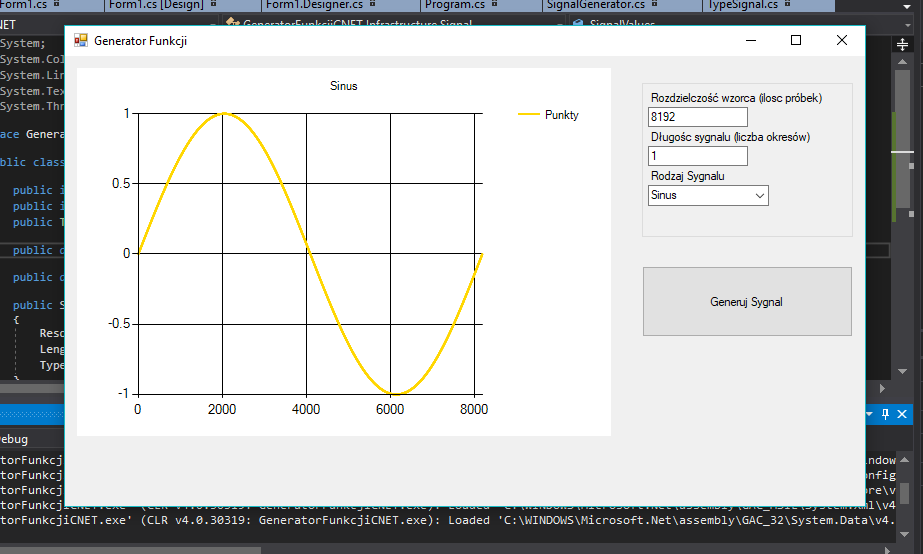
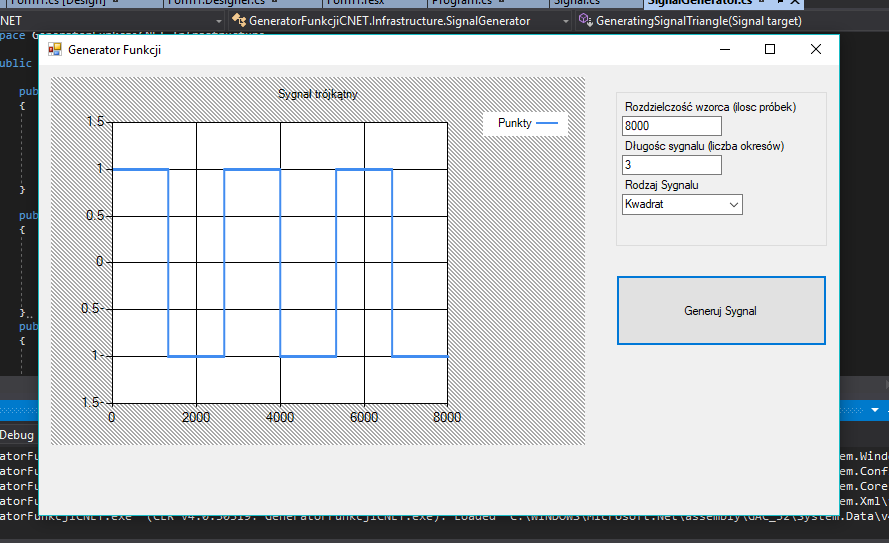
Delikatne poprawki

diff --git a/GeneratorFunkcjiCNET/Form1.Designer.cs b/GeneratorFunkcjiCNET/Form1.Designer.cs
@@ -28,42 +28,51 @@
         /// </summary>
         private void InitializeComponent()
         {
-            System.Windows.Forms.DataVisualization.Charting.ChartArea chartArea3 = new System.Windows.Forms.DataVisualization.Charting.ChartArea();
-            System.Windows.Forms.DataVisualization.Charting.Legend legend3 = new System.Windows.Forms.DataVisualization.Charting.Legend();
-            System.Windows.Forms.DataVisualization.Charting.Series series3 = new System.Windows.Forms.DataVisualization.Charting.Series();
+            System.Windows.Forms.DataVisualization.Charting.ChartArea chartArea1 = new System.Windows.Forms.DataVisualization.Charting.ChartArea();
+            System.Windows.Forms.DataVisualization.Charting.Legend legend1 = new System.Windows.Forms.DataVisualization.Charting.Legend();
+            System.Windows.Forms.DataVisualization.Charting.Series series1 = new System.Windows.Forms.DataVisualization.Charting.Series();
             this.chartMain = new System.Windows.Forms.DataVisualization.Charting.Chart();
             this.buttonGenerate = new System.Windows.Forms.Button();
             this.groupBoxEnterValues = new System.Windows.Forms.GroupBox();
-            this.textBoxResolutionPattern = new System.Windows.Forms.TextBox();
-            this.labelResolutionPattern = new System.Windows.Forms.Label();
-            this.labelLengthSignal = new System.Windows.Forms.Label();
-            this.textBoxLengthSignal = new System.Windows.Forms.TextBox();
-            this.comboBoxSignalType = new System.Windows.Forms.ComboBox();
             this.labelSignalType = new System.Windows.Forms.Label();
+            this.comboBoxSignalType = new System.Windows.Forms.ComboBox();
+            this.textBoxLengthSignal = new System.Windows.Forms.TextBox();
+            this.labelLengthSignal = new System.Windows.Forms.Label();
+            this.labelResolutionPattern = new System.Windows.Forms.Label();
+            this.textBoxResolutionPattern = new System.Windows.Forms.TextBox();
             ((System.ComponentModel.ISupportInitialize)(this.chartMain)).BeginInit();
             this.groupBoxEnterValues.SuspendLayout();
             this.SuspendLayout();
             // 
             // chartMain
             // 
+            this.chartMain.BackColor = System.Drawing.Color.DarkGray;
+            this.chartMain.BackGradientStyle = System.Windows.Forms.DataVisualization.Charting.GradientStyle.DiagonalRight;
+            this.chartMain.BackgroundImageLayout = System.Windows.Forms.ImageLayout.Center;
+            this.chartMain.BackHatchStyle = System.Windows.Forms.DataVisualization.Charting.ChartHatchStyle.DarkDownwardDiagonal;
+            this.chartMain.BackImageTransparentColor = System.Drawing.Color.White;
+            this.chartMain.BackSecondaryColor = System.Drawing.Color.White;
+            this.chartMain.BorderlineColor = System.Drawing.Color.Transparent;
+            this.chartMain.BorderSkin.BackGradientStyle = System.Windows.Forms.DataVisualization.Charting.GradientStyle.Center;
+            this.chartMain.BorderSkin.BackSecondaryColor = System.Drawing.Color.Lime;
             this.chartMain.BorderSkin.PageColor = System.Drawing.Color.LightSeaGreen;
-            chartArea3.Name = "ChartArea1";
-            this.chartMain.ChartAreas.Add(chartArea3);
-            this.chartMain.Cursor = System.Windows.Forms.Cursors.Default;
-            legend3.Name = "Legend1";
-            this.chartMain.Legends.Add(legend3);
+            chartArea1.Name = "ChartArea1";
+            this.chartMain.ChartAreas.Add(chartArea1);
+            this.chartMain.Cursor = System.Windows.Forms.Cursors.Cross;
+            this.chartMain.ImeMode = System.Windows.Forms.ImeMode.On;
+            legend1.Name = "Legend1";
+            this.chartMain.Legends.Add(legend1);
             this.chartMain.Location = new System.Drawing.Point(12, 12);
             this.chartMain.Name = "chartMain";
-            this.chartMain.Palette = System.Windows.Forms.DataVisualization.Charting.ChartColorPalette.Fire;
-            this.chartMain.PaletteCustomColors = new System.Drawing.Color[] {
-        System.Drawing.Color.FromArgb(((int)(((byte)(0)))), ((int)(((byte)(192)))), ((int)(((byte)(0)))))};
-            series3.BorderColor = System.Drawing.Color.Blue;
-            series3.BorderWidth = 2;
-            series3.ChartArea = "ChartArea1";
-            series3.ChartType = System.Windows.Forms.DataVisualization.Charting.SeriesChartType.Line;
-            series3.Legend = "Legend1";
-            series3.Name = "Punkty";
-            this.chartMain.Series.Add(series3);
+            this.chartMain.Palette = System.Windows.Forms.DataVisualization.Charting.ChartColorPalette.None;
+            this.chartMain.RightToLeft = System.Windows.Forms.RightToLeft.Yes;
+            series1.BorderColor = System.Drawing.Color.Blue;
+            series1.BorderWidth = 2;
+            series1.ChartArea = "ChartArea1";
+            series1.ChartType = System.Windows.Forms.DataVisualization.Charting.SeriesChartType.Line;
+            series1.Legend = "Legend1";
+            series1.Name = "Punkty";
+            this.chartMain.Series.Add(series1);
             this.chartMain.Size = new System.Drawing.Size(534, 368);
             this.chartMain.TabIndex = 0;
             this.chartMain.Text = "chartMain";
@@ -93,37 +102,14 @@
             this.groupBoxEnterValues.TabStop = false;
             this.groupBoxEnterValues.Enter += new System.EventHandler(this.groupBox1_Enter);
             // 
-            // textBoxResolutionPattern
+            // labelSignalType
             // 
-            this.textBoxResolutionPattern.Location = new System.Drawing.Point(6, 30);
-            this.textBoxResolutionPattern.Name = "textBoxResolutionPattern";
-            this.textBoxResolutionPattern.Size = new System.Drawing.Size(100, 20);
-            this.textBoxResolutionPattern.TabIndex = 0;
-            // 
-            // labelResolutionPattern
-            // 
-            this.labelResolutionPattern.AutoSize = true;
-            this.labelResolutionPattern.Location = new System.Drawing.Point(6, 14);
-            this.labelResolutionPattern.Name = "labelResolutionPattern";
-            this.labelResolutionPattern.Size = new System.Drawing.Size(178, 13);
-            this.labelResolutionPattern.TabIndex = 1;
-            this.labelResolutionPattern.Text = "Rozdzielczość wzorca (ilosc próbek)";
-            // 
-            // labelLengthSignal
-            // 
-            this.labelLengthSignal.AutoSize = true;
-            this.labelLengthSignal.Location = new System.Drawing.Point(6, 53);
-            this.labelLengthSignal.Name = "labelLengthSignal";
-            this.labelLengthSignal.Size = new System.Drawing.Size(166, 13);
-            this.labelLengthSignal.TabIndex = 2;
-            this.labelLengthSignal.Text = "Długośc sygnalu (liczba okresów)";
-            // 
-            // textBoxLengthSignal
-            // 
-            this.textBoxLengthSignal.Location = new System.Drawing.Point(6, 69);
-            this.textBoxLengthSignal.Name = "textBoxLengthSignal";
-            this.textBoxLengthSignal.Size = new System.Drawing.Size(100, 20);
-            this.textBoxLengthSignal.TabIndex = 3;
+            this.labelSignalType.AutoSize = true;
+            this.labelSignalType.Location = new System.Drawing.Point(6, 92);
+            this.labelSignalType.Name = "labelSignalType";
+            this.labelSignalType.Size = new System.Drawing.Size(81, 13);
+            this.labelSignalType.TabIndex = 5;
+            this.labelSignalType.Text = "Rodzaj Sygnalu";
             // 
             // comboBoxSignalType
             // 
@@ -140,14 +126,37 @@
             this.comboBoxSignalType.Size = new System.Drawing.Size(121, 21);
             this.comboBoxSignalType.TabIndex = 4;
             // 
-            // labelSignalType
+            // textBoxLengthSignal
             // 
-            this.labelSignalType.AutoSize = true;
-            this.labelSignalType.Location = new System.Drawing.Point(6, 92);
-            this.labelSignalType.Name = "labelSignalType";
-            this.labelSignalType.Size = new System.Drawing.Size(81, 13);
-            this.labelSignalType.TabIndex = 5;
-            this.labelSignalType.Text = "Rodzaj Sygnalu";
+            this.textBoxLengthSignal.Location = new System.Drawing.Point(6, 69);
+            this.textBoxLengthSignal.Name = "textBoxLengthSignal";
+            this.textBoxLengthSignal.Size = new System.Drawing.Size(100, 20);
+            this.textBoxLengthSignal.TabIndex = 3;
+            // 
+            // labelLengthSignal
+            // 
+            this.labelLengthSignal.AutoSize = true;
+            this.labelLengthSignal.Location = new System.Drawing.Point(6, 53);
+            this.labelLengthSignal.Name = "labelLengthSignal";
+            this.labelLengthSignal.Size = new System.Drawing.Size(166, 13);
+            this.labelLengthSignal.TabIndex = 2;
+            this.labelLengthSignal.Text = "Długośc sygnalu (liczba okresów)";
+            // 
+            // labelResolutionPattern
+            // 
+            this.labelResolutionPattern.AutoSize = true;
+            this.labelResolutionPattern.Location = new System.Drawing.Point(6, 14);
+            this.labelResolutionPattern.Name = "labelResolutionPattern";
+            this.labelResolutionPattern.Size = new System.Drawing.Size(178, 13);
+            this.labelResolutionPattern.TabIndex = 1;
+            this.labelResolutionPattern.Text = "Rozdzielczość wzorca (ilosc próbek)";
+            // 
+            // textBoxResolutionPattern
+            // 
+            this.textBoxResolutionPattern.Location = new System.Drawing.Point(6, 30);
+            this.textBoxResolutionPattern.Name = "textBoxResolutionPattern";
+            this.textBoxResolutionPattern.Size = new System.Drawing.Size(100, 20);
+            this.textBoxResolutionPattern.TabIndex = 0;
             // 
             // Form1
             // 

diff --git a/GeneratorFunkcjiCNET/Form1.cs b/GeneratorFunkcjiCNET/Form1.cs
@@ -17,6 +17,8 @@ namespace GeneratorFunkcjiCNET
         public Form1()
         {
             InitializeComponent();
+
+
             comboBoxSignalType.SelectedIndex = 0;
             textBoxLengthSignal.Text = "1";
             textBoxResolutionPattern.Text = "8192";
@@ -29,7 +31,7 @@ namespace GeneratorFunkcjiCNET
         public void UpdateChart()
         {
             chartMain.Series["Punkty"].Points.Clear();
-
+         
             foreach(var point in currentSignal.SignalValues)
             {
                 chartMain.Series["Punkty"].Points.AddY(point);

diff --git a/GeneratorFunkcjiCNET/Infrastructure/SignalGenerator.cs b/GeneratorFunkcjiCNET/Infrastructure/SignalGenerator.cs
@@ -70,7 +70,7 @@ namespace GeneratorFunkcjiCNET.Infrastructure
         public static void GeneratingSignalSawtooth(this Signal target)
         {
             target.SignalValues = (double[])Array.CreateInstance(typeof(double), target.ResolutionPattern);
-            double lengthSection = target.ResolutionPattern / (target.LenghtSignal * 4);
+            double lengthSection = target.ResolutionPattern / (target.LenghtSignal * 2);
             double lengthBetweenSamples = 1 / lengthSection;
             double value = 0;
 
